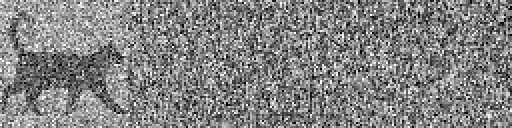
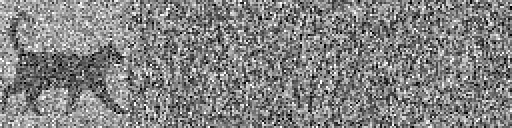
Removed S-randomness, does not help much

diff --git a/repeat-accumulate.cpp b/repeat-accumulate.cpp
@@ -137,35 +137,16 @@ class RepeatAccumulateEncoder
       std::mt19937_64 gen;
       gen.seed(seed);
 
-      // Start with ordered sequence
+      // Fisher-Yates shuffle
       for (int i = 0; i < B * Q; i++) {
         order_[i] = i;
       }
-
-      // Fisher-Yates shuffle with one extra condition: swap only if resulting interleaver is S-random 
-      // (no input symbols within distance S appear within a distance of S in the output) with S == Q
       for (int i = 0; i < B * Q - 1; i++) {
         std::uniform_int_distribution<int> dist(i, B * Q - 1);
-        auto j = dist(gen);
-        bool is_s_random = true;
-        for (int back = 0; back < Q && i >= back; back++) {
-          int distance = order_[i - back] - order_[j];
-          if (distance < Q && distance > -Q) {
-            is_s_random = false;
-            break;
-          }
-        }
-        if (is_s_random) {
-          auto tmp = order_[i];
-          order_[i] = order_[j];
-          order_[j] = tmp;
-        } else {
-          if (i) { // Step back and try again
-            i--; 
-          } else {
-            throw std::logic_error("Could not make interleaver S-random");
-          }
-        }
+        auto k = dist(gen);
+        auto tmp = order_[i];
+        order_[i] = order_[k];
+        order_[k] = tmp;
       }
     }
 

diff --git a/README.md b/README.md
@@ -40,7 +40,7 @@ Decoding algorithm is iterative. Intermediate results after 1, 10, 20, 30, 40 it
 
 Decoding algorithm is borrowed from LDPC codes. It's using [passing messages](https://en.wikipedia.org/wiki/Belief_propagation) back and forth on [Tanner graph](https://en.wikipedia.org/wiki/Tanner_graph), in a way similar to [Viterbi algorithm](https://en.wikipedia.org/wiki/Viterbi_algorithm).
 
-To build Tanner graph, start by noting that with *A=1* it is possible to get one original (permuted) bit by XORing two consecutive transmitted parity bits. For example, if *b<sub>1</sub>&oplus;b<sub>2</sub>* is followed by *b<sub>1</sub>&oplus;b<sub>2</sub>&oplus;b<sub>3</sub>*, then *(b<sub>1</sub>&oplus;b<sub>2</sub>)&oplus;(b<sub>1</sub>&oplus;b<sub>2</sub>&oplus;b<sub>3)</sub>=b<sub>3</sub>*. And if we XOR it with corresponding data bit, we should get a zero.
+To build Tanner graph, start by noting that with *A=1* it is possible to get one original (permuted) bit by XORing two consecutive transmitted parity bits. For example, if *b<sub>1</sub>&oplus;b<sub>2</sub>* is followed by *b<sub>1</sub>&oplus;b<sub>2</sub>&oplus;b<sub>3</sub>*, then *(b<sub>1</sub>&oplus;b<sub>2</sub>)&oplus;(b<sub>1</sub>&oplus;b<sub>2</sub>&oplus;b<sub>3</sub>)=b<sub>3</sub>*. And if we XOR it with corresponding data bit, we should get a zero.
 
 Similarly, if *A>1* then by XORing two censecutive parity bits we get XOR of *A* original (permuted) bits. And if we XOR that with corresponding data bits, we should again get a zero.
 
@@ -48,14 +48,11 @@ This allows to construct one parity check node for each parity bit. All parity c
 
 ![Tanner graph example](images/tanner-graph.png)
 
-In this simplified Tanner graph with three bits of data and *Q=2*, the squares at the top represent check nodes, and circles at the bottom represent variable nodes.
+In this simplified Tanner graph with three bits of data and *Q=2*, the squares at the top represent check nodes, and circles at the bottom represent variable nodes. Variable nodes correspond to transmitted bits and therefore are of two kinds: 
 
-Variable nodes are of two kinds: *parity bits* with two inputs (except the last one that has one input), and *data bits* with *Q* inputs. Here variable nodes 0 through 2 (white circles) are data bits, and 3 through 8 (gray circles) are parity bits.
+* *data bits* represented by white circles 0 through 2. Each data variable node has *Q* inputs, 
+* *parity bits* represented by gray circles 3 through 8. Each parity variable node has two inputs, except the last one that only has one
 
-Once all parity checks are satisfied (or we reach maximum number of iterations, which usually means that some errors cannot be corrected), compare values held by variable nodes for data bits with zero to recover original bits.
-
-Random interleaver has nice theoretical properties, *on average* and *in the limit*, but intuitively it's clear that not all random interleavers are equally good. For example, interleaver that does nothing is theoretically possible, albeit unlikely, and cannot be expected to work well because one would want the interleaver to avoid placing copies of the same bit close together.
-
-One way to enforce this requirement is to use *S*-random interleaver, where no input symbols within distance *S* appear within a distance of *S* in the output, with *S = Q*. The code in this example uses Fisher-Yates shuffle. Before every swap it checks if the resulting interleaver is *S*-random, and if it is not, takes a step back and retries.
+The algorithm stops once all parity checks are satisfied (or we reach maximum number of iterations, which usually means that some errors cannot be corrected). At this point variable nodes contain best estimate of original bits.
 
 More details on RA and other error correcting codes can be found [here](http://www.inference.org.uk/itprnn/book.pdf) (link goes straight to PDF).
